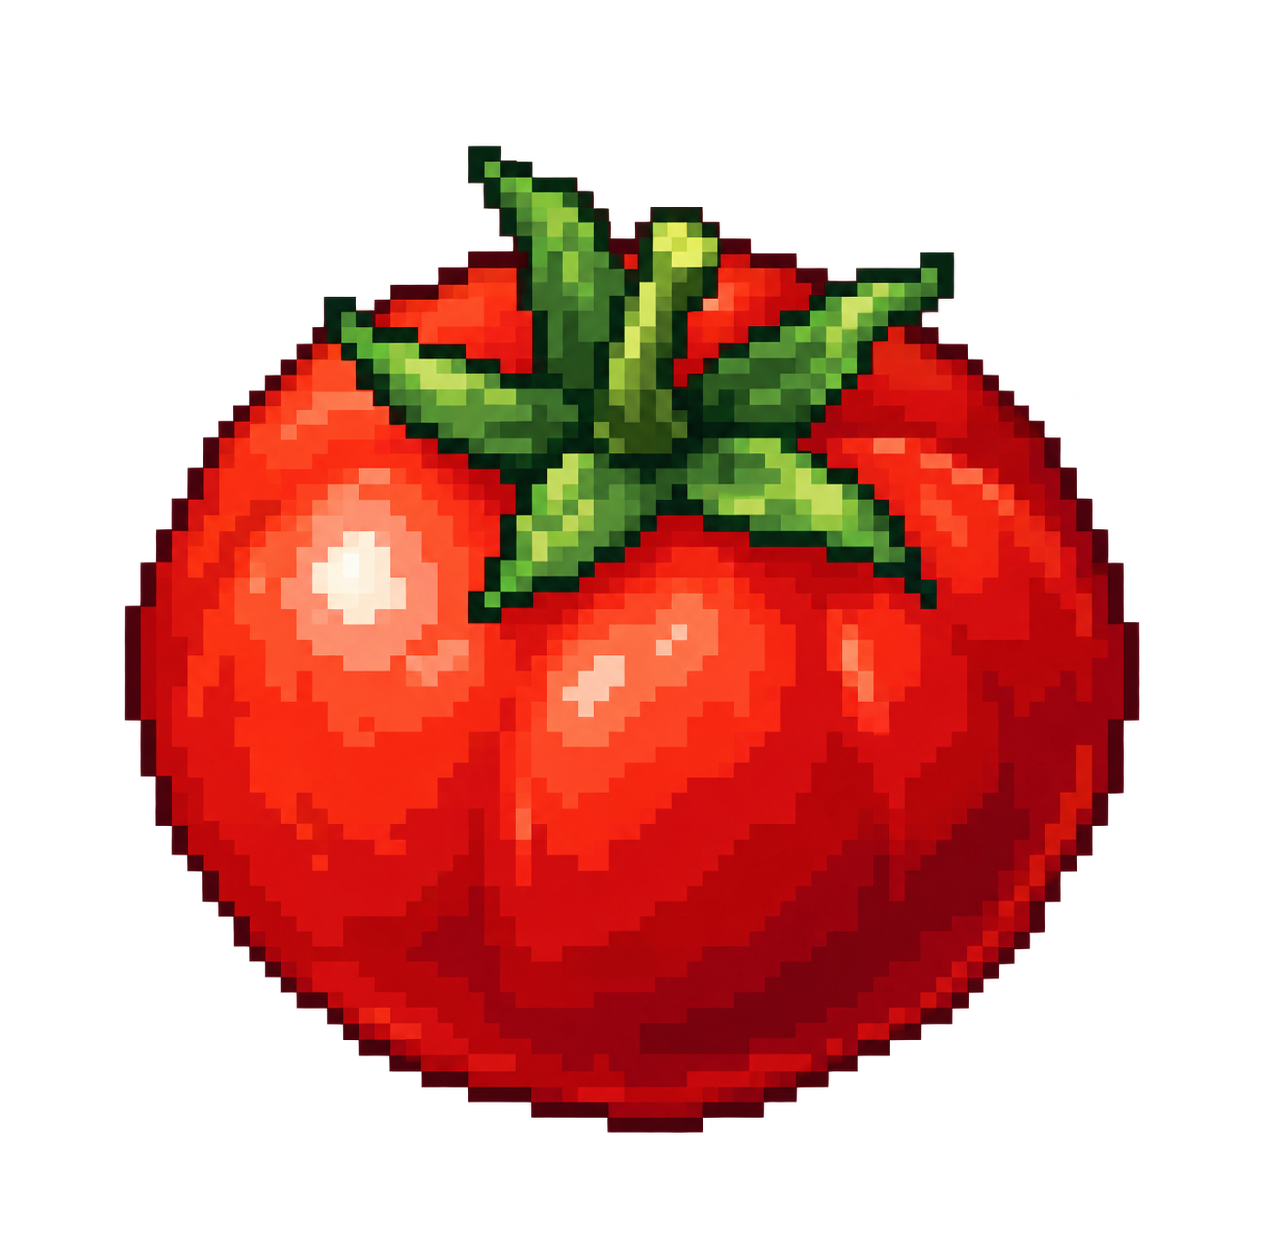
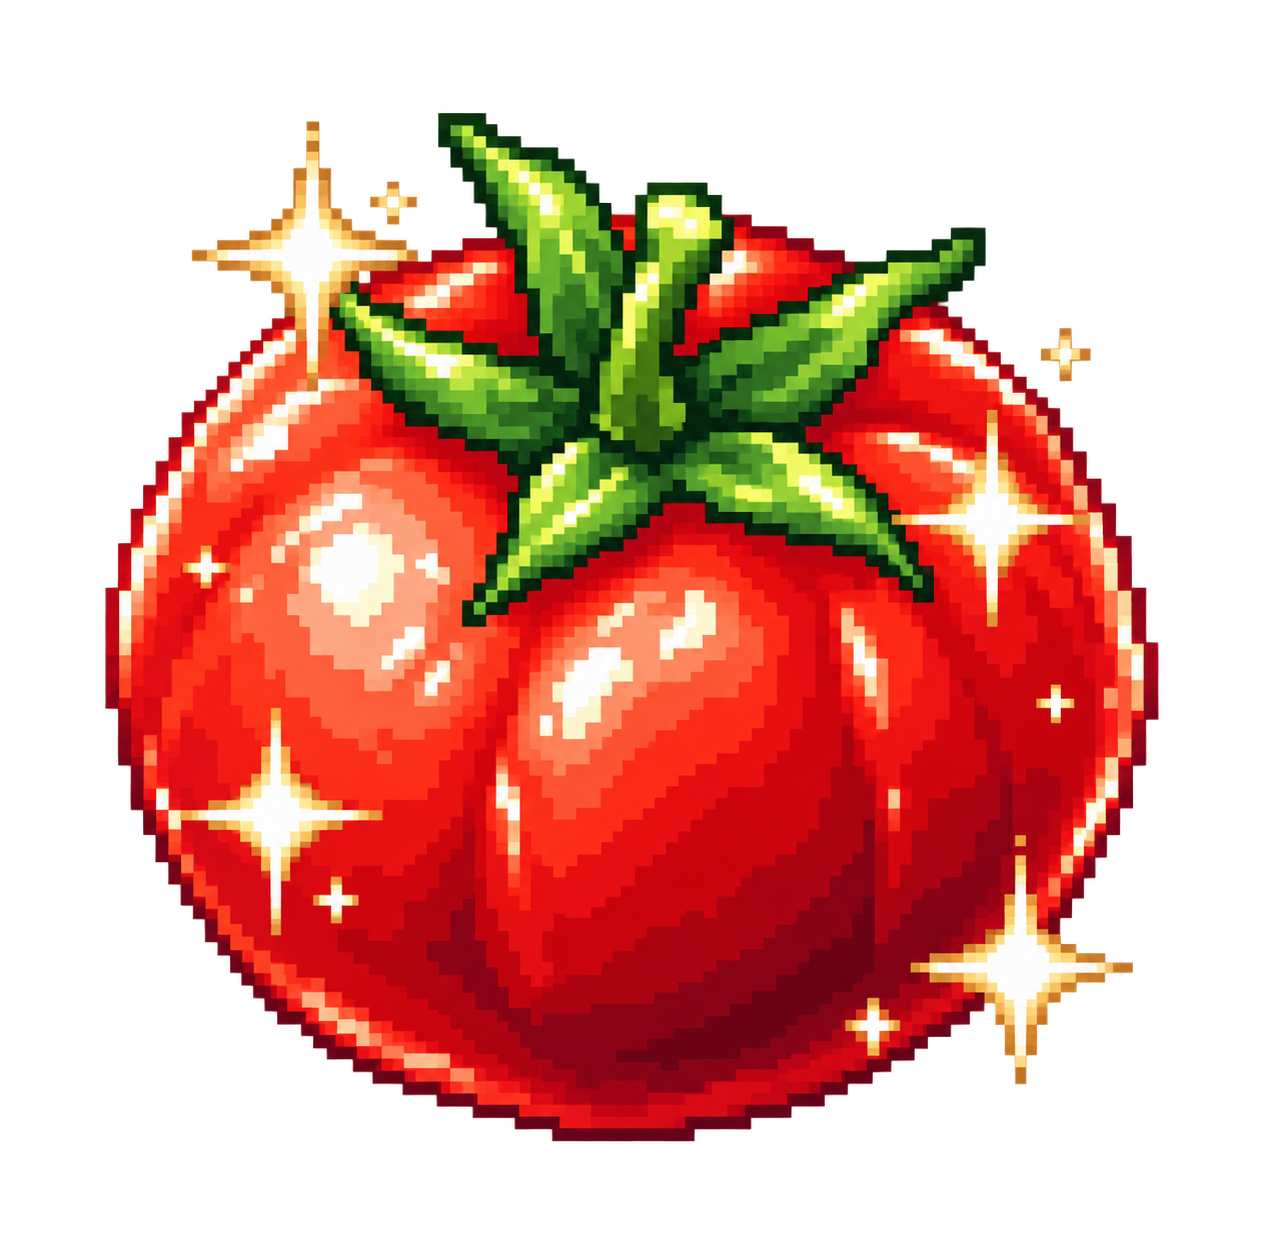
Destacar tomates prístinos con destellos y sustituir versiones anteriores

Changed region(s): [[0.0617, 0.0916, 0.9256, 0.9164], [0.5554, 0.6109, 0.5862, 0.6415], [0.5245, 0.5804, 0.5554, 0.6109]]

diff --git a/DISENO.md b/DISENO.md
@@ -276,7 +276,9 @@ Cultivar alimentos, por ejemplo **patatas y tomates**, en la granja del jugador.
 
 **Recursos gráficos solicitados:** [tomate](assets/objetos/cultivos/tomate.png), [tomate prístino](assets/objetos/cultivos/tomate-pristino.png), [tomate Siru](assets/objetos/cultivos/tomate-siru.png) y [tomate Siru prístino](assets/objetos/cultivos/tomate-siru-pristino.png). Cuatro PNG transparentes pixel art de una pieza cada uno, con vista elevada en tres cuartos. [Previsualizaciones y notas de importación](assets/objetos/cultivos/README.md).
 
-Paleta propuesta en estas imágenes: común rojo; prístino rojo intenso con forma más equilibrada y reflejos limpios; Siru índigo oscuro con vetas doradas; Siru prístino con vetas más brillantes y hojas más vivas. El usuario pidió crear y subir estas cuatro imágenes, sin autorizar código ni nuevas imágenes ajenas a este encargo. Su aspecto definitivo puede revisarse; las vetas luminosas no confirman efectos mágicos jugables.
+**Diseños básicos aprobados por el usuario:** tomate común rojo y tomate Siru índigo oscuro con vetas doradas. Se conservan intactos.
+
+**Diferenciación prístina solicitada:** debe distinguirse a primera vista por brillos o detalles destacados. Las imágenes prístinas se sustituyeron por nuevas versiones: tomate rojo con contorno luminoso y grandes destellos perlados; Siru con vetas y contorno dorados más luminosos y grandes destellos de oro y blanco. Se reutilizan los mismos nombres de archivo, sin copias anteriores en la carpeta vigente. Los efectos son estáticos en el PNG y no confirman poderes mágicos jugables. El usuario autorizó generar y subir estos dos reemplazos; la programación y la generación general siguen en pausa.
 
 Semillas, frecuencia de riego, otros cuidados, tiempos de crecimiento, venta y usos culinarios están por definir. No hay un maestro agricultor vivo adicional confirmado. Esta decisión no determina el progreso mientras el juego está cerrado.
 
@@ -473,3 +475,4 @@ Taberna, tiendas independientes y más habitantes fueron ideas tempranas. Si se 
 - **7 de octubre de 2026:** definido progreso específico por cultivo: cosechar tomates aumenta la habilidad con tomates y las probabilidades de mejor calidad. El usuario propone «Prístino» como nombre de calidad y una lógica de experiencia específica también para animales; detalles pendientes.
 - **7 de octubre de 2026:** elegido «Siru» como nombre de la variante rara, inspirado en el acadio ṣīru, «elevado, excelso, sublime». Aspecto y obtención pendientes.
 - **7 de octubre de 2026:** solicitados cuatro recursos pixel art independientes: tomate, tomate prístino, tomate Siru y tomate Siru prístino, con subida explícita a GitHub. Generados PNG transparentes; paleta propuesta roja para comunes e índigo con vetas doradas para Siru. Confirmado el uso de «Prístino» como máxima calidad. Programación en pausa.
+- **7 de octubre de 2026:** aprobados los dos tomates básicos. A petición del usuario, sustituidos los dos prístinos por versiones con grandes destellos y contornos luminosos para diferenciarlos a primera vista; mismos nombres de archivo, cuatro imágenes vigentes y sin alterar los básicos.

diff --git a/assets/objetos/cultivos/README.md b/assets/objetos/cultivos/README.md
@@ -5,9 +5,9 @@ Cuatro PNG independientes con fondo transparente, vista elevada en tres cuartos 
 | Recurso | Vista previa | Paleta de esta propuesta | Dimensiones originales |
 |---|---|---|---|
 | [Tomate](tomate.png) | <img src="tomate.png" width="128" alt="Tomate común rojo"> | Rojo natural, hojas verdes. | 1254 × 1254 |
-| [Tomate prístino](tomate-pristino.png) | <img src="tomate-pristino.png" width="128" alt="Tomate prístino rojo intenso"> | Rojo intenso, reflejos limpios y hojas más vivas. | 1264 × 1244 |
+| [Tomate prístino](tomate-pristino.png) | <img src="tomate-pristino.png" width="128" alt="Tomate prístino rojo con grandes destellos perlados"> | Rojo intenso, borde luminoso y grandes destellos blanco perlado y champán. | 1265 × 1244 |
 | [Tomate Siru](tomate-siru.png) | <img src="tomate-siru.png" width="128" alt="Tomate Siru índigo con vetas doradas"> | Índigo oscuro, vetas de oro antiguo y hojas verde azulado. | 1254 × 1254 |
-| [Tomate Siru prístino](tomate-siru-pristino.png) | <img src="tomate-siru-pristino.png" width="128" alt="Tomate Siru prístino con vetas doradas brillantes"> | Índigo, vetas doradas más brillantes y hojas más vivas. | 1312 × 1199 |
+| [Tomate Siru prístino](tomate-siru-pristino.png) | <img src="tomate-siru-pristino.png" width="128" alt="Tomate Siru prístino con vetas luminosas y grandes destellos dorados"> | Índigo, vetas y borde dorados luminosos, grandes destellos de oro y blanco. | 1312 × 1199 |
 
 ## Importación
 
@@ -19,3 +19,5 @@ Cuatro PNG independientes con fondo transparente, vista elevada en tres cuartos 
 **Variante y calidad son independientes:** Siru identifica la variante rara; prístino identifica la máxima calidad. La imagen no establece probabilidades, condiciones de obtención, efectos mágicos ni un brillo animado.
 
 Generados el **7 de octubre de 2026**, a petición explícita del usuario. Esta petición autoriza estas cuatro imágenes; la generación general continúa en pausa. Diseño vigente: [DISENO.md](../../../DISENO.md).
+
+Ese mismo día, el usuario aprobó los dos diseños básicos y pidió destacar más los prístinos. Los dos PNG prístinos se sustituyeron por versiones con grandes destellos de cuatro puntas y contornos luminosos. Solo hay cuatro imágenes vigentes en esta carpeta; no se conservan copias de los prístinos anteriores aquí. Los brillos están dibujados en el PNG, sin animación.
